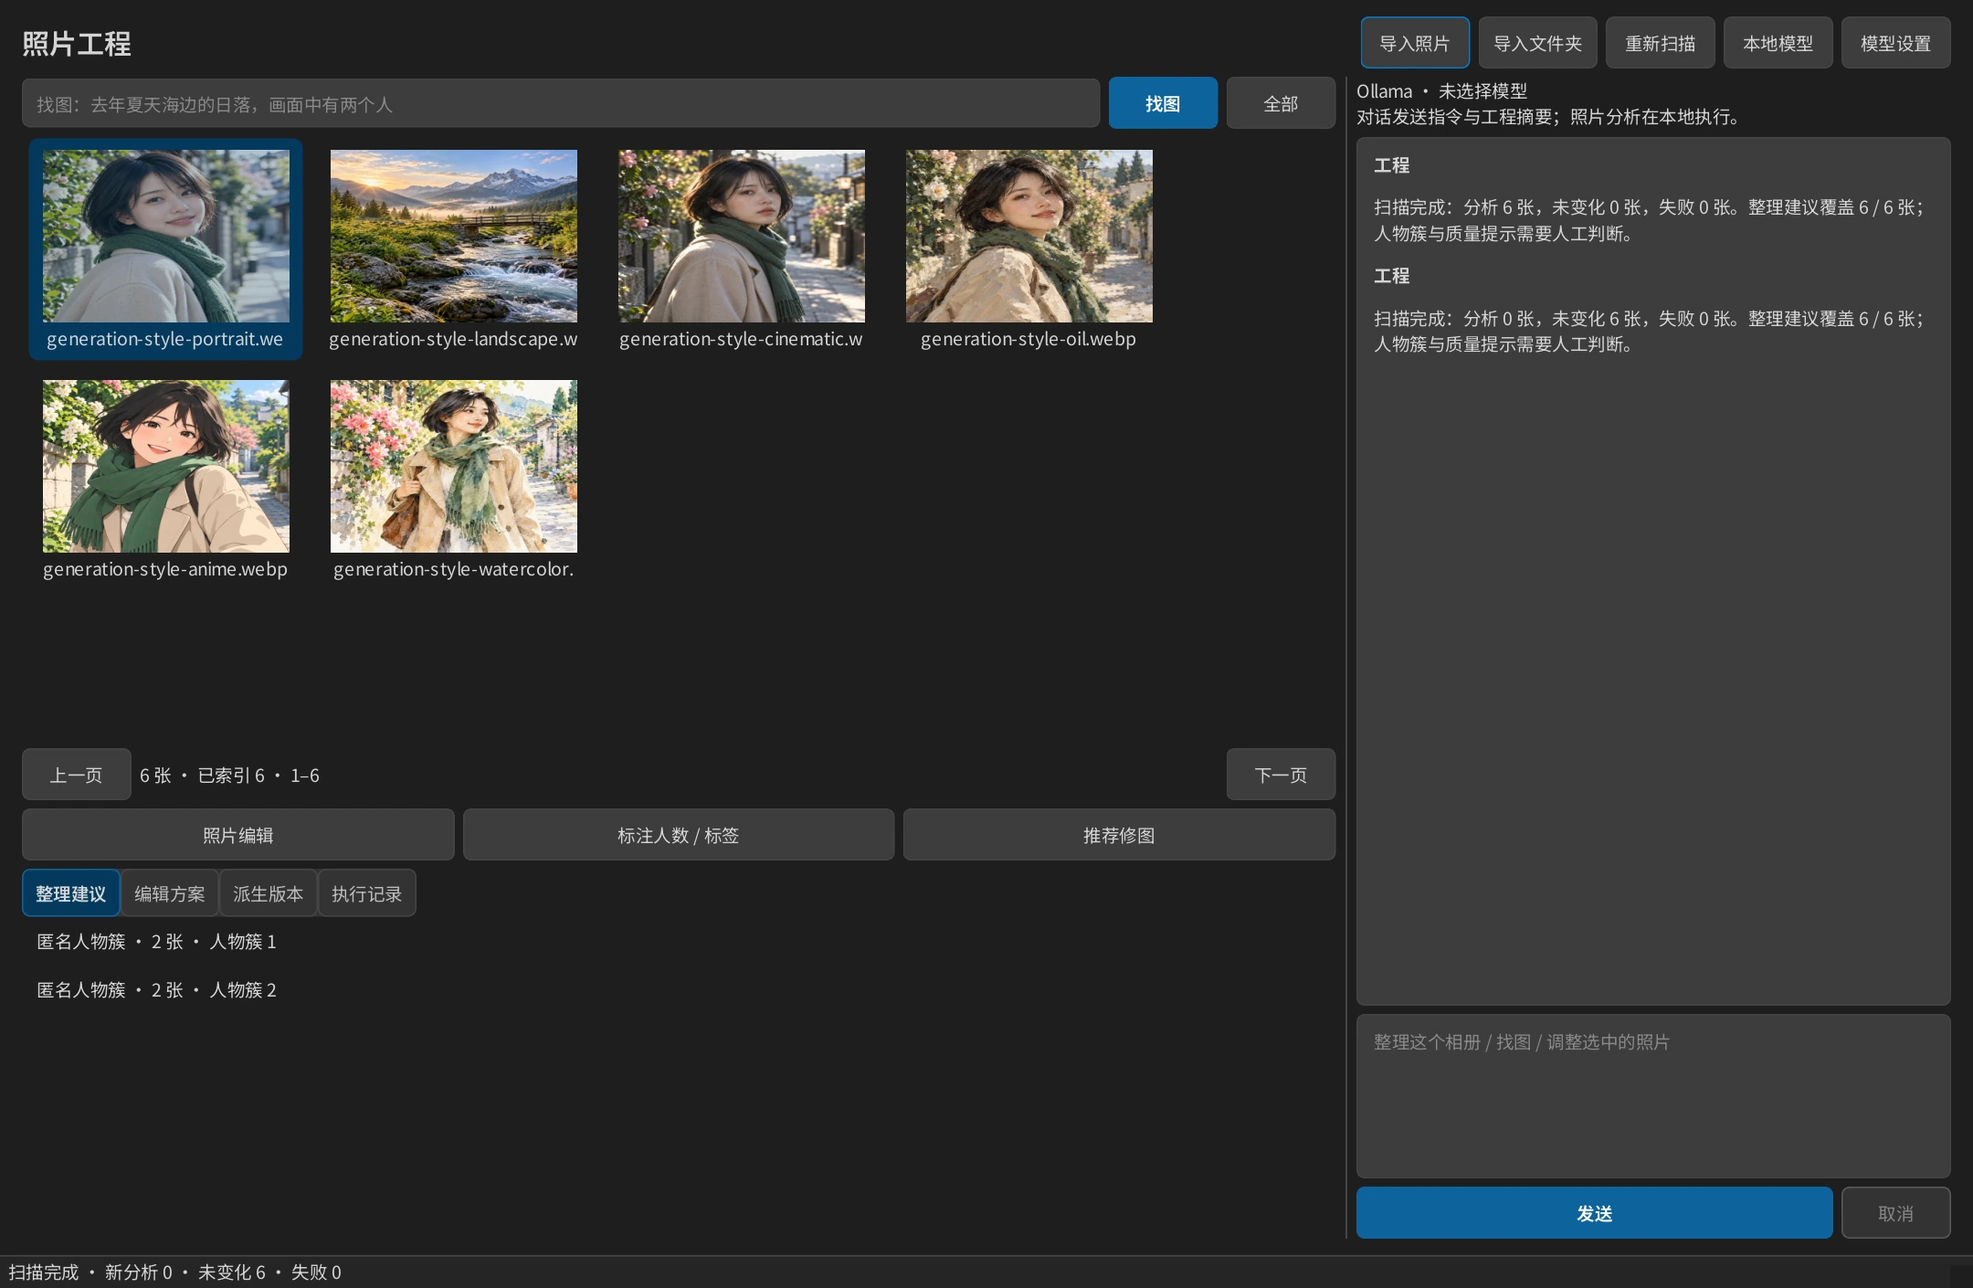
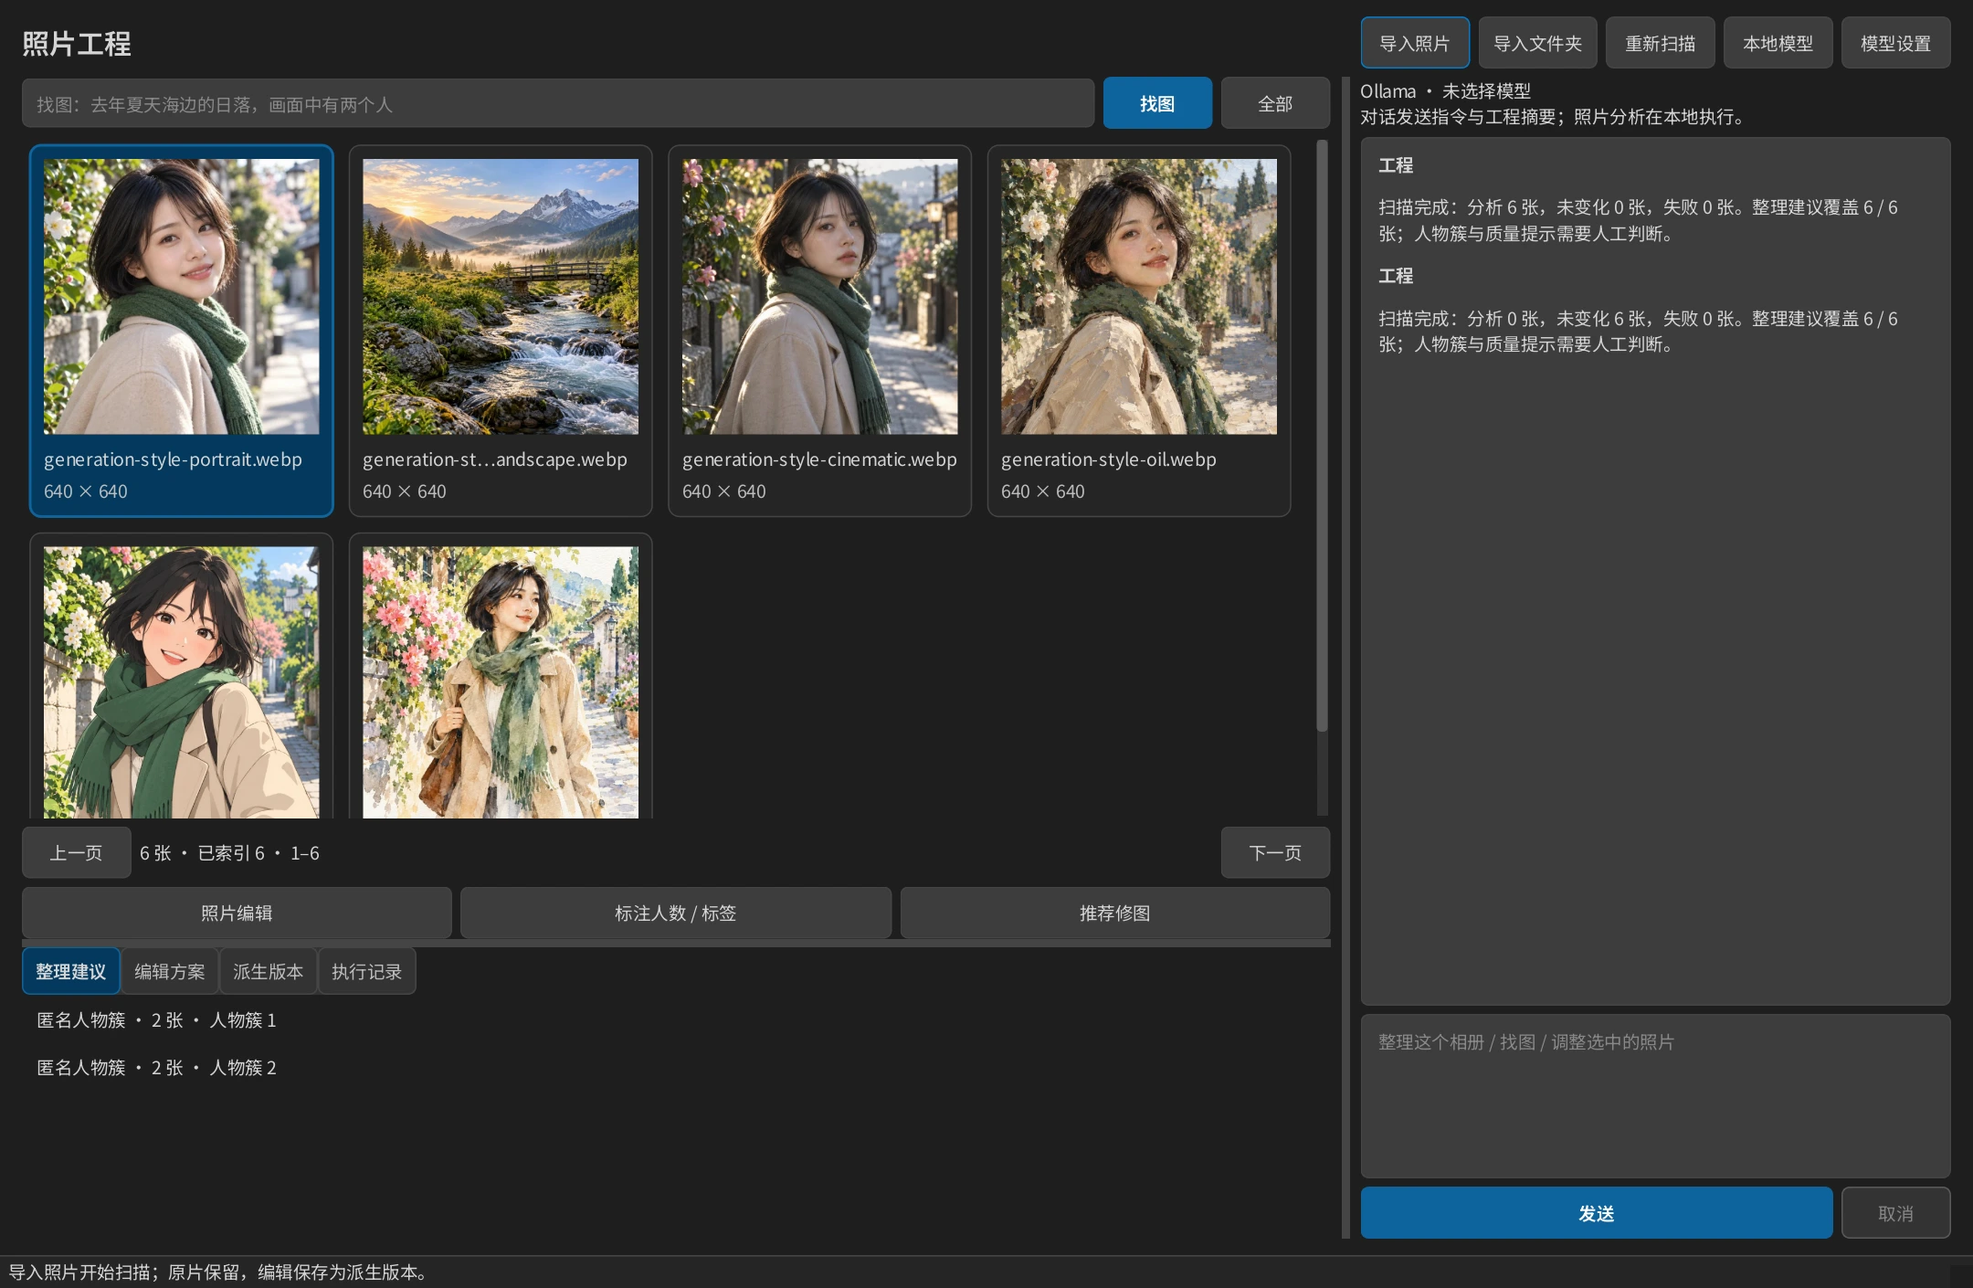
Preserve photo aspect ratios and reflow the Photo Agent gallery

Changed region(s): [[0.0, 0.0624, 0.9616, 0.9674], [0.0, 0.9674, 0.2171, 0.9986]]

diff --git a/tests/test_agent_gallery.py b/tests/test_agent_gallery.py
@@ -1,0 +1,132 @@
+import numpy as np
+import pytest
+from PIL import Image, ImageDraw
+from PySide6.QtCore import Qt
+from PySide6.QtGui import QColor, QImage
+from PySide6.QtTest import QTest
+
+from ccraw.photo_agent.store import Project
+from ccraw.photo_agent.ui import AgentWindow
+from ccraw.ui.theme import apply_theme, tokens
+
+
+def gallery_project(tmp_path, dimensions):
+    project = Project.create(tmp_path / 'gallery.ccrawagent', '照片')
+    for index, size in enumerate(dimensions):
+        source = tmp_path / f'{index}-完整文件名用于验证照片标题不被硬截断-2026年夏天的旅行照片.png'
+        Image.new('RGB', size, (240, 20, 20)).save(source)
+        photo_id = project.import_paths([source])[0]
+        preview = project.directory('previews') / f'{photo_id}.png'
+        preview.write_bytes(source.read_bytes())
+        project.update_photo(
+            photo_id, facts={'preview': preview.name, 'width': size[0], 'height': size[1]}
+        )
+    return project
+
+
+@pytest.mark.parametrize('dimensions', [(2400, 1200), (720, 1440), (1200, 1200), (3840, 320)])
+def test_gallery_renders_complete_photo_at_original_aspect_ratio(app, tmp_path, dimensions):
+    window = AgentWindow(gallery_project(tmp_path, [dimensions]))
+    try:
+        window.show()
+        QTest.qWait(60)
+        gallery = window.gallery
+        item = gallery.item(0)
+        item.setSelected(True)
+        image = gallery.viewport().grab().toImage().convertToFormat(QImage.Format.Format_RGBA8888)
+        pixels = np.frombuffer(image.bits(), dtype=np.uint8).reshape(
+            image.height(), image.bytesPerLine() // 4, 4
+        )[:, : image.width()]
+        red = (pixels[:, :, 0] > 120) & (pixels[:, :, 1] < 90) & (pixels[:, :, 2] < 100)
+        rows, columns = np.where(red)
+        assert len(rows), 'The selected photo must remain visible'
+        width, height = np.ptp(columns) + 1, np.ptp(rows) + 1
+        # Rasterization can move each edge by one pixel, especially on thin panoramas.
+        ratio = dimensions[0] / dimensions[1]
+        assert abs(width - height * ratio) <= 2 * max(1, ratio)
+        assert width > 30 and height > 10
+        center = pixels[(rows.min() + rows.max()) // 2, (columns.min() + columns.max()) // 2, :3]
+        assert tuple(center) == (240, 20, 20), 'Selection must not tint the photo itself'
+        assert item.text() == '0-完整文件名用于验证照片标题不被硬截断-2026年夏天的旅行照片.png'
+    finally:
+        window.close()
+
+
+@pytest.mark.parametrize('mode', ['light', 'dark'])
+def test_gallery_keeps_all_four_image_corners_visible(app, tmp_path, mode):
+    palette, stylesheet, font = app.palette(), app.styleSheet(), app.font()
+    apply_theme(app, mode)
+    project = gallery_project(tmp_path, [(300, 200)])
+    photo = project.photos()[0]
+    preview = project.directory('previews') / photo['facts']['preview']
+    image = Image.new('RGB', (300, 200), (100, 100, 100))
+    draw = ImageDraw.Draw(image)
+    corners = [
+        ((0, 0, 35, 35), (255, 0, 0)),
+        ((264, 0, 299, 35), (0, 255, 0)),
+        ((0, 164, 35, 199), (0, 0, 255)),
+        ((264, 164, 299, 199), (255, 255, 0)),
+    ]
+    for rectangle, color in corners:
+        draw.rectangle(rectangle, fill=color)
+    image.save(preview)
+    window = AgentWindow(project)
+    try:
+        window.show()
+        QTest.qWait(60)
+        gallery = window.gallery
+        card = gallery.visualItemRect(gallery.item(0))
+        unselected = gallery.viewport().grab().toImage()
+        ratio = unselected.devicePixelRatio()
+        background = unselected.pixelColor(
+            round((card.left() + 28) * ratio), round((card.top() + 10) * ratio)
+        )
+        assert background == QColor(tokens().panel), 'Photo cards must follow the application theme'
+        window.gallery.item(0).setSelected(True)
+        rendered = (
+            window.gallery.viewport()
+            .grab()
+            .toImage()
+            .convertToFormat(QImage.Format.Format_RGBA8888)
+        )
+        pixels = np.frombuffer(rendered.bits(), np.uint8).reshape(
+            rendered.height(), rendered.bytesPerLine() // 4, 4
+        )[:, : rendered.width(), :3]
+        for _, color in corners:
+            assert np.count_nonzero(np.all(pixels == color, axis=2)) > 20
+    finally:
+        window.close()
+        app.setPalette(palette)
+        app.setStyleSheet(stylesheet)
+        app.setFont(font)
+
+
+def test_gallery_reflows_without_clipping_and_preserves_selection(app, tmp_path):
+    project = gallery_project(tmp_path, [(240, 120)] * 16)
+    window = AgentWindow(project)
+    try:
+        window.show()
+        item = window.gallery.item(2)
+        item.setSelected(True)
+        selected = window.selected_ids()
+        first_row_widths = []
+        for size in [(1180, 780), (1570, 940)]:
+            window.resize(*size)
+            QTest.qWait(80)
+            gallery = window.gallery
+            rects = [gallery.visualItemRect(gallery.item(i)) for i in range(gallery.count())]
+            row = [rect for rect in rects if rect.top() == rects[0].top()]
+            assert len(row) >= 2
+            assert all(
+                rect.left() >= 0 and rect.right() < gallery.viewport().width() for rect in row
+            )
+            assert gallery.viewport().width() - row[-1].right() <= 24
+            assert gallery.horizontalScrollBar().maximum() == 0
+            assert window.selected_ids() == selected
+            first_row_widths.append(row[0].width())
+        assert first_row_widths[0] != first_row_widths[1]
+        window.refresh_gallery()
+        assert window.selected_ids() == selected
+        assert window.gallery.item(2).data(Qt.ItemDataRole.UserRole) in selected
+    finally:
+        window.close()

diff --git a/ccraw/photo_agent/ui.py b/ccraw/photo_agent/ui.py
@@ -8,7 +8,7 @@ from pathlib import Path
 import threading
 import weakref
 
-from PySide6.QtCore import Qt, QSize, QThread, Signal, QTimer
+from PySide6.QtCore import Qt, QThread, Signal, QTimer
 from PySide6.QtGui import QIcon, QAction, QFontDatabase
 from PySide6.QtWidgets import (
     QMainWindow,
@@ -21,7 +21,6 @@ from PySide6.QtWidgets import (
     QMessageBox,
     QListWidget,
     QListWidgetItem,
-    QAbstractItemView,
     QSplitter,
     QTabWidget,
     QTextBrowser,
@@ -37,6 +36,7 @@ from . import analysis, editing, search
 from .models import LocalModels, install_models
 from .runtime import run_turn
 from .store import Project
+from .gallery import PhotoGallery, DETAIL_ROLE, thumbnail
 
 ACTIVE = weakref.WeakValueDictionary()
 
@@ -197,9 +197,18 @@ class AgentWindow(QMainWindow):
             self.busy_controls.append(control)
         layout.addLayout(top)
         splitter = QSplitter()
+        splitter.setChildrenCollapsible(False)
+        splitter.setHandleWidth(6)
         left = QWidget()
+        left.setMinimumWidth(520)
         left_layout = QVBoxLayout(left)
         left_layout.setContentsMargins(0, 0, 8, 0)
+        self.photo_splitter = QSplitter(Qt.Orientation.Vertical)
+        self.photo_splitter.setChildrenCollapsible(False)
+        self.photo_splitter.setHandleWidth(6)
+        photo_panel = QWidget()
+        photo_layout = QVBoxLayout(photo_panel)
+        photo_layout.setContentsMargins(0, 0, 0, 0)
         finder = QHBoxLayout()
         self.search_input = QLineEdit()
         self.search_input.setMaxLength(1000)
@@ -210,23 +219,17 @@ class AgentWindow(QMainWindow):
         finder.addWidget(find)
         self.busy_controls.append(find)
         finder.addWidget(button('全部', self.show_all))
-        left_layout.addLayout(finder)
-        self.gallery = QListWidget()
-        self.gallery.setViewMode(QListWidget.ViewMode.IconMode)
-        self.gallery.setResizeMode(QListWidget.ResizeMode.Adjust)
-        self.gallery.setMovement(QListWidget.Movement.Static)
-        self.gallery.setSelectionMode(QAbstractItemView.SelectionMode.ExtendedSelection)
-        self.gallery.setIconSize(QSize(180, 126))
-        self.gallery.setGridSize(QSize(210, 168))
-        self.gallery.setSpacing(4)
+        photo_layout.addLayout(finder)
+        self.gallery = PhotoGallery()
+        self.gallery.setMinimumHeight(160)
         self.gallery.itemDoubleClicked.connect(lambda _: self.open_editor())
-        left_layout.addWidget(self.gallery, 1)
+        photo_layout.addWidget(self.gallery, 1)
         pages = QHBoxLayout()
         pages.addWidget(button('上一页', lambda: self.page(-1)))
         self.count_label = QLabel()
         pages.addWidget(self.count_label, 1)
         pages.addWidget(button('下一页', lambda: self.page(1)))
-        left_layout.addLayout(pages)
+        photo_layout.addLayout(pages)
         photo_actions = QHBoxLayout()
         self.editor_button = button('照片编辑', self.open_editor)
         photo_actions.addWidget(self.editor_button)
@@ -235,7 +238,8 @@ class AgentWindow(QMainWindow):
         recommend = button('推荐修图', self.recommend)
         photo_actions.addWidget(recommend)
         self.busy_controls.extend((annotate, recommend, self.editor_button))
-        left_layout.addLayout(photo_actions)
+        photo_layout.addLayout(photo_actions)
+        self.photo_splitter.addWidget(photo_panel)
         self.tabs = QTabWidget()
         self.suggestion_list = QListWidget()
         self.suggestion_list.itemClicked.connect(self.select_group)
@@ -252,8 +256,12 @@ class AgentWindow(QMainWindow):
         self.tabs.addTab(self.derivative_list, '派生版本')
         self.trace = QTextBrowser()
         self.tabs.addTab(self.trace, '执行记录')
-        self.tabs.setMaximumHeight(270)
-        left_layout.addWidget(self.tabs)
+        self.tabs.setMinimumHeight(140)
+        self.photo_splitter.addWidget(self.tabs)
+        self.photo_splitter.setSizes([620, 210])
+        self.photo_splitter.setStretchFactor(0, 3)
+        self.photo_splitter.setStretchFactor(1, 1)
+        left_layout.addWidget(self.photo_splitter)
         splitter.addWidget(left)
         right = QWidget()
         right.setMinimumWidth(340)
@@ -278,6 +286,8 @@ class AgentWindow(QMainWindow):
         right_layout.addLayout(send_row)
         splitter.addWidget(right)
         splitter.setSizes([920, 420])
+        splitter.setStretchFactor(0, 3)
+        splitter.setStretchFactor(1, 1)
         layout.addWidget(splitter, 1)
         self.progress_bar = QProgressBar()
         self.progress_bar.setMaximumHeight(12)
@@ -536,8 +546,11 @@ class AgentWindow(QMainWindow):
         evidence = self.evidence if self.result_ids is not None else {}
         for photo in records:
             facts = photo['facts']
-            item = QListWidgetItem(Path(photo['path']).name[:28])
+            item = QListWidgetItem(Path(photo['path']).name)
             item.setData(Qt.ItemDataRole.UserRole, photo['id'])
+            width, height = facts.get('width'), facts.get('height')
+            detail = f'{width} × {height}' if width and height else '待扫描'
+            item.setData(DETAIL_ROLE, detail)
             item.setToolTip(
                 '\n'.join(
                     [
@@ -553,7 +566,7 @@ class AgentWindow(QMainWindow):
                 preview.is_file()
                 and preview.resolve().parent == (self.project.root / 'previews').resolve()
             ):
-                item.setIcon(QIcon(str(preview)))
+                item.setData(Qt.ItemDataRole.DecorationRole, thumbnail(preview))
             self.gallery.addItem(item)
             item.setSelected(photo['id'] in selected)
         summary = self.project.summary()

diff --git a/ccraw/photo_agent/gallery.py b/ccraw/photo_agent/gallery.py
@@ -1,0 +1,116 @@
+"""Responsive photo cards with explicit, colour-preserving image rendering."""
+
+from PySide6.QtCore import QEvent, QRectF, QSize, Qt, QTimer
+from PySide6.QtGui import QImageReader, QPainter, QPen, QPixmap
+from PySide6.QtWidgets import QListWidget, QStyle, QStyledItemDelegate
+
+from ..ui import theme
+
+DETAIL_ROLE = Qt.ItemDataRole.UserRole + 1
+
+
+def thumbnail(path):
+    # Decode the bounded preview once; painting/resizing never reads the original.
+    reader = QImageReader(str(path))
+    reader.setAutoTransform(True)
+    size = reader.size()
+    if size.isValid() and max(size.width(), size.height()) > 512:
+        reader.setScaledSize(size.scaled(QSize(512, 512), Qt.AspectRatioMode.KeepAspectRatio))
+    return QPixmap.fromImage(reader.read())
+
+
+class PhotoDelegate(QStyledItemDelegate):
+    def sizeHint(self, option, index):
+        return self.parent().gridSize()
+
+    def paint(self, painter, option, index):
+        # Transparent list-item palettes do not reliably represent the app theme.
+        selected = bool(option.state & QStyle.StateFlag.State_Selected)
+        hovered = bool(option.state & QStyle.StateFlag.State_MouseOver)
+        card = QRectF(option.rect).adjusted(6, 6, -6, -6)
+        painter.save()
+        painter.setClipRect(option.rect)
+        painter.setRenderHint(QPainter.RenderHint.Antialiasing)
+        painter.setPen(QPen(theme.color('accent' if selected else 'border'), 2 if selected else 1))
+        painter.setBrush(theme.color('selection' if selected else 'hover' if hovered else 'panel'))
+        painter.drawRoundedRect(card, 8, 8)
+        side = max(1, card.width() - 20)
+        frame = QRectF(card.left() + 10, card.top() + 10, side, side)
+        painter.fillRect(frame, theme.color('canvas'))
+        pixmap = index.data(Qt.ItemDataRole.DecorationRole)
+        if isinstance(pixmap, QPixmap) and not pixmap.isNull():
+            # A single scale factor keeps every pixel of all four image edges visible.
+            scale = min(frame.width() / pixmap.width(), frame.height() / pixmap.height())
+            width, height = pixmap.width() * scale, pixmap.height() * scale
+            target = QRectF(
+                frame.center().x() - width / 2, frame.center().y() - height / 2, width, height
+            )
+            painter.setRenderHint(QPainter.RenderHint.SmoothPixmapTransform)
+            painter.drawPixmap(target, pixmap, QRectF(pixmap.rect()))
+        else:
+            painter.setPen(theme.color('secondary'))
+            painter.drawText(frame, Qt.AlignmentFlag.AlignCenter, '暂无预览')
+        painter.setFont(option.font)
+        metrics = option.fontMetrics
+        title_rect = QRectF(frame.left(), frame.bottom() + 8, frame.width(), metrics.height())
+        painter.setPen(theme.color('text'))
+        title = metrics.elidedText(
+            str(index.data(Qt.ItemDataRole.DisplayRole) or ''),
+            Qt.TextElideMode.ElideMiddle,
+            int(title_rect.width()),
+        )
+        painter.drawText(
+            title_rect, Qt.AlignmentFlag.AlignLeft | Qt.AlignmentFlag.AlignVCenter, title
+        )
+        detail_rect = title_rect.translated(0, metrics.height() + 4)
+        painter.setPen(theme.color('secondary'))
+        detail = metrics.elidedText(
+            str(index.data(DETAIL_ROLE) or ''),
+            Qt.TextElideMode.ElideRight,
+            int(detail_rect.width()),
+        )
+        painter.drawText(
+            detail_rect, Qt.AlignmentFlag.AlignLeft | Qt.AlignmentFlag.AlignVCenter, detail
+        )
+        if option.state & QStyle.StateFlag.State_HasFocus:
+            painter.setBrush(Qt.BrushStyle.NoBrush)
+            painter.setPen(QPen(theme.color('focus'), 1, Qt.PenStyle.DotLine))
+            painter.drawRoundedRect(card.adjusted(3, 3, -3, -3), 6, 6)
+        painter.restore()
+
+
+class PhotoGallery(QListWidget):
+    def __init__(self, parent=None):
+        super().__init__(parent)
+        self.setObjectName('agentGallery')
+        self.setViewMode(QListWidget.ViewMode.IconMode)
+        self.setResizeMode(QListWidget.ResizeMode.Adjust)
+        self.setMovement(QListWidget.Movement.Static)
+        self.setSelectionMode(QListWidget.SelectionMode.ExtendedSelection)
+        self.setUniformItemSizes(True)
+        self.setWordWrap(False)
+        self.setSpacing(0)
+        self.setMouseTracking(True)
+        self.setHorizontalScrollBarPolicy(Qt.ScrollBarPolicy.ScrollBarAlwaysOff)
+        self.setVerticalScrollMode(QListWidget.ScrollMode.ScrollPerPixel)
+        self.setItemDelegate(PhotoDelegate(self))
+        self.layout_timer = QTimer(self)
+        self.layout_timer.setSingleShot(True)
+        self.layout_timer.timeout.connect(self.reflow)
+        self.reflow()
+
+    def viewportEvent(self, event):
+        result = super().viewportEvent(event)
+        if event.type() == QEvent.Type.Resize and hasattr(self, 'layout_timer'):
+            self.layout_timer.start(0)
+        return result
+
+    def reflow(self):
+        # Keep Qt's item-layout inset and integer rounding inside the viewport.
+        available = max(1, self.viewport().width() - 8)
+        columns = max(1, available // 220)
+        width = available // columns
+        size = QSize(width, width + 2 * self.fontMetrics().height() + 12)
+        if size != self.gridSize():
+            self.setGridSize(size)
+            self.doItemsLayout()

diff --git a/tests/test_agent_ui.py b/tests/test_agent_ui.py
@@ -81,7 +81,9 @@ def test_existing_editor_saves_recipe_back_to_agent_project(app, tmp_path):
             and not editor.jobs
             and not editor.render_running
             and not editor.timer.isActive()
-        )
+        ),
+        # A freshly extracted source tree compiles native preview kernels once.
+        timeout=45,
     )
     editor.edits['adjustments']['exposure'] = 0.25
     next(

diff --git a/docs/photo-agent.md b/docs/photo-agent.md
@@ -14,6 +14,8 @@ CCRaw 的照片编辑和 Photo Agent 共用 Photo Engine。传统 `.ccraw` 和 `
 
 聊天可以输入「整理当前工程」「找到去年夏天海边的日落」「对选中照片推荐自然增强方案」「让选中照片再暖一点」。找图结果会显示在照片区；点击整理建议可查看对应照片。
 
+照片缩略图按原比例居中完整显示，文件名和像素尺寸独立排列。照片区随窗口宽度调整列数；拖动照片区与下方建议面板之间的分隔条，可调整两部分的高度。
+
 工具中的日期范围为开始日期包含、结束日期不包含。人数条件以人工标注为准，未知人数默认作为明确标注的候选；请求 `strict_people=true` 时排除未知人数。匿名人物簇可用 `person-…` 编号检索，编号不代表真实身份。标签通过选中照片后的「标注人数 / 标签」保存。
 
 「推荐修图」无需 LLM。选择方案、确认参数后，Photo Engine 从原片全分辨率计算并输出 16 位 TIFF 派生版本。双击照片或点击「照片编辑」进入完整编辑器；完成调整后点击菜单「保存调整到 Photo Agent」，把配方保存回工程，再继续推荐、生成或导出。
